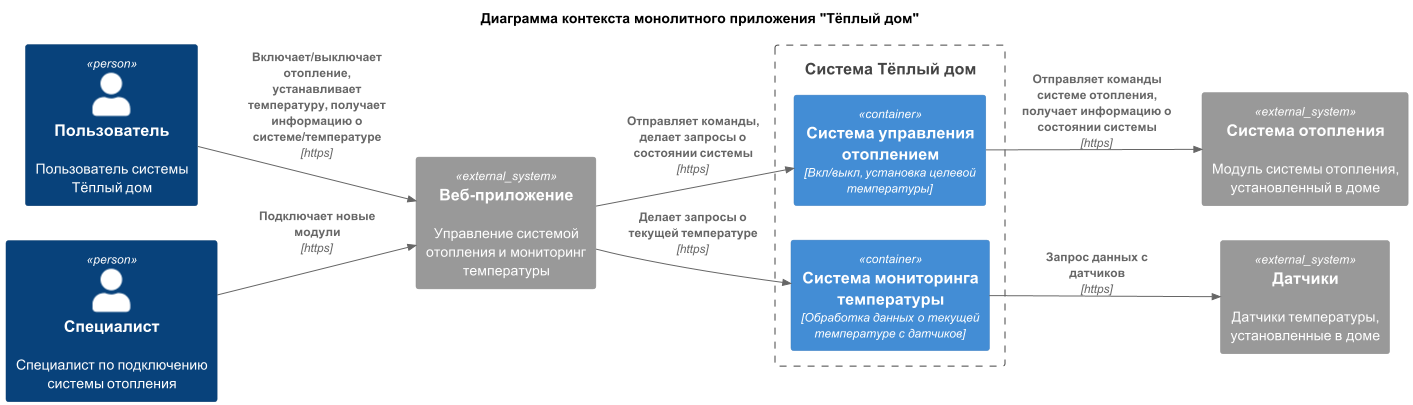
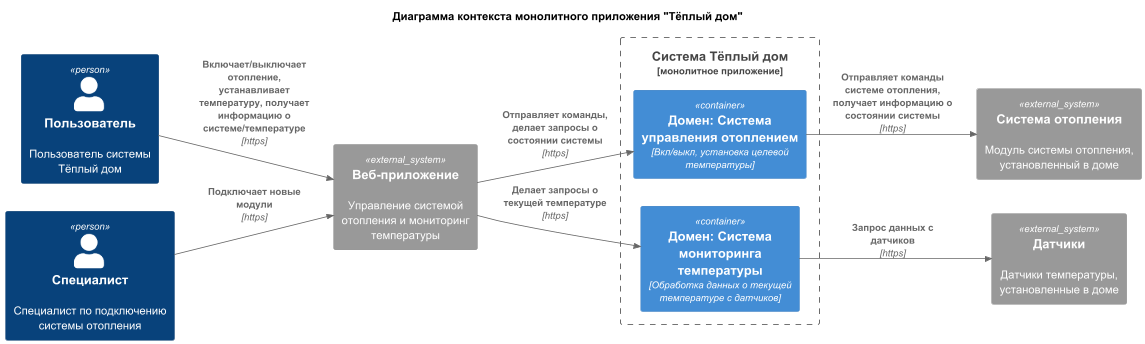
[task-1] Проектирование - Диаграмма контейнеров

diff --git a/Project_template_part_1.md b/Project_template_part_1.md
@@ -59,18 +59,19 @@
 
 ### 5. Визуализация контекста системы - диаграмма С4
 
-[Исходник в формате puml](smart-home-monolith/diagrams/1-5-monolith-context.puml)
+Диаграмма контекста монолитного приложения "Тёплый дом" ([исходник в формате puml](smart-home-monolith/diagrams/1-5-monolith-context.puml))
 
 ![Диаграмма контекста монолитного приложения "Тёплый дом"](smart-home-monolith/diagrams/1-5-monolith-context.png)
 
-
 # Задание 2. Проектирование микросервисной архитектуры
-
-В этом задании вам нужно предоставить только диаграммы в модели C4. Мы не просим вас отдельно описывать получившиеся микросервисы и то, как вы определили взаимодействия между компонентами To-Be системы. Если вы правильно подготовите диаграммы C4, они и так это покажут.
 
 **Диаграмма контейнеров (Containers)**
 
-Добавьте диаграмму.
+Т.к. у нас раньше не была отображена диаграмма Контекста `to-be` системы, на диаграмме контейнеров так же отобразил внешние системы.
+
+([Исходник в формате puml](smart-home-monolith/diagrams/2-1-microservices-containers.puml))
+
+![Диаграмма контекста монолитного приложения "Тёплый дом"](smart-home-monolith/diagrams/2-1-microservices-containers.png)
 
 **Диаграмма компонентов (Components)**
 
